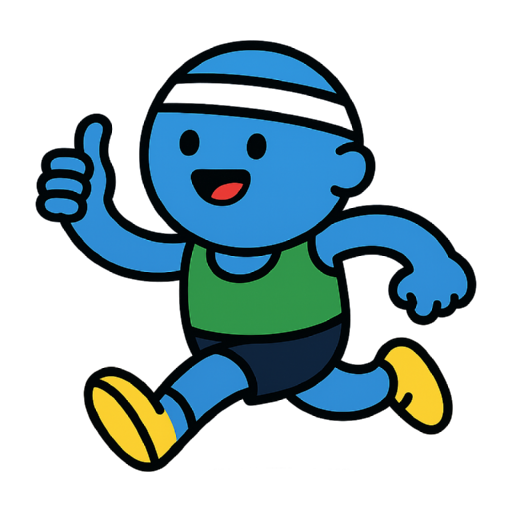
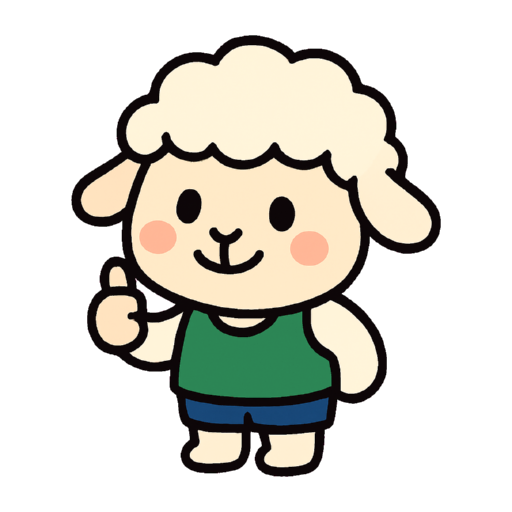
feat(디자인): 팔레트 크림+포레스트그린 + 마스코트 양 4종
회장 결정: "너무 파란색이 위주, 아예 새로" → "귀여운 양 방향으로" →
"황태경 안대로 가자". 디자인 리드(황태경) 안 A + 마스코트 안 1(양) 확정.

**팔레트 — 안 A(크림 러너)**
  brand #2f6e4a 포레스트그린 · bg #f9f1e4 크림 · card #fffdf8
  ink #2c2416 웜브라운블랙 · dark #171c12 딥올리브 · gold #c0841a 불변
세션8 독립 채점이 "블루+화이트+그레이 = v0/Bolt류 AI 스캐폴딩 문법"을
"AI스럽다"의 3대 원인 중 하나로 지목했고, 그 세션은 표면 단계로 우회했다.
이번엔 정면으로 바꿨다.

대비 전수 실측 — 현행 대비 회귀 없음(본문 13.66:1 · 버튼 6.09:1 ·
다크 위 텍스트 7.66:1로 현행 5.02:1보다 여유). 자문안에서 **두 곳 보정**:
- 시상대 다크 #26301f → **#171c12**: 자문안 값에서는 골드가 4.30:1로 AA
  미달이다(현행 네이비 5.41:1). #171c12면 5.41:1로 동급 회복. 세션8이 다크
  위 블루 3.06:1을 잡아 brandOnDark를 만든 것과 같은 함정. 황태경 동의.
- Team.green 대체안 **둘 다 폐기**: 머스터드 #c78a2e는 골드와 1.08:1로 사실상
  같은 색(골드 전용 규칙 파괴), 틸 #2f8f8a는 브랜드 그린과 1.57:1로 색상각이
  26°밖에 안 벌어져 현행(1.51:1)과 차이 없음. 미해결로 코드에 명시.

**마스코트 — 양 4종 교체**
동글 울/땋은 울(형태) × 레드/그린(조끼). 스타일A를 생성 → edits API로
스타일B 파생(캐릭터 고정) → 팀그린은 AI 재생성 대신 **코드로 조끼만 재도색**해
실루엣 100% 동일 보장. 신규 스크립트 2개: cutout-mascot-bg.mjs(마젠타 크로마키
컷아웃) · recolor-mascot-vest.mjs(조끼 hue 덩어리만 밝기비 유지 재도색).

내가 5컷 뽑아보며 확인한 실패 원인을 프롬프트에 반영했다: 시안1은 얼굴이
살구색 사람 아기가 돼 양으로 안 읽혔고, 시안3은 측면 전신이라 36px 아바타에서
얼굴이 사라졌고, 시안5는 머리 울이 프레임 위로 잘렸다. 통과 조건 = 늘어진 귀
+ 곱슬 울 + 짧은 주둥이 + 정면 3/4 + 프레임 여백.
마이 탭 라벨도 "숏컷/포니테일"(사람 은유) → "동글 울/땋은 울"(양 특성)로.

**황태경이 추가로 잡은 블루 잔재 4곳**(내 파일럿이 놓친 것):
animated-icon.module.css(웹 변형) · Shadow.soft/card 그림자색(Brand 객체 밖이라
자동 미반영) · schedule-section 하드코딩 네이비 → brandDeep 토큰(8.28:1) ·
badge-celebration 컨페티 하늘색 → Team.red

**실기기 검증**(갤럭시S21 · 320×711dp): 5개 탭 정상. 골드가 크림 위에서
[…]

diff --git a/app/src/lib/brand.ts b/app/src/lib/brand.ts
@@ -1,39 +1,53 @@
-/** 5키로(구 모두의 마라톤) 색 토큰 — docs/DESIGN.md 기준 (웹 index.html의 CSS 변수와 정렬).
- *  웹·앱이 같은 팔레트를 쓰도록 유지(에디토리얼 프리미엄).
- *  메인 = Azure Blue #2563c9 (2026-07-12 확정 · 당근 오렌지와 분리 · 블루+골드 = 프리미엄 메달 감성). */
+/** 5키로 색 토큰 — docs/DESIGN.md 기준 (웹 index.html의 CSS 변수와 정렬).
+ *
+ *  ⚠⚠ **파일럿 중 — 팔레트 안 A(크림 러너)** (2026-07-30 · 회장 지시 "너무 파란색이 위주, 아예 새로")
+ *  되돌리기: `git checkout app/src/lib/brand.ts` (앱 화면의 하드코딩은 4곳뿐이라 이 파일이 거의 전부다)
+ *
+ *  이전 = Azure Blue #2563c9 (2026-07-12 확정). 세션8 독립 채점이 "블루+화이트+그레이뿐인 팔레트
+ *  = v0/Bolt류 AI 스캐폴딩 문법"을 "AI스럽다"의 3대 원인 중 하나로 지목했고, 그 세션은 색을 늘리지
+ *  않고 표면 단계로 우회했다. 이번엔 정면으로 바꿔 눈으로 판단한다.
+ *  자문 원문: docs/MASCOT_PALETTE_DIRECTION.md(찬성·황태경) / MASCOT_UX_REVIEW.md(반대·서지안)
+ *
+ *  대비는 전부 WCAG로 실측했다(현행 대비 회귀 없음 확인). 자문안에서 **두 곳을 보정**했다:
+ *   ① 시상대 다크를 자문안 #26301f 대신 **#171c12** 로 — #26301f에서는 골드가 4.30:1로 **AA 미달**이다
+ *      (현행 다크 #141a2b에서는 5.41:1). #171c12면 5.41:1로 현행과 동급이 된다. 세션8이 다크 위
+ *      블루 3.06:1을 잡아 brandOnDark를 만든 것과 같은 종류의 함정이라 같은 방식으로 막았다.
+ *   ② `Team.green` 대체색으로 제안된 머스터드(#c78a2e)는 **골드(#c0841a)와 1.08:1 = 사실상 같은 색**
+ *      이라 "골드=순위·성과 전용" 규칙을 깬다 → 채택하지 않았다. (Team 주석 참조)
+ */
 export const Brand = {
-  brand: "#2563c9",
-  brandDeep: "#1b4ea3",
-  brandSoft: "#eaf1fd",
-  brandLine: "#c5d8f6",
+  brand: "#2f6e4a", // 포레스트 그린 — 흰 글자 6.09:1
+  brandDeep: "#204d34",
+  brandSoft: "#e6f0e8",
+  brandLine: "#c3ddcd",
   accent: "#c0841a",
   accentSoft: "#f6efdd",
-  gold: "#c0841a",
-  ink: "#161a22",
-  ink2: "#363d49",
-  soft: "#5f6773",
-  faint: "#98a1ae",
+  gold: "#c0841a", // 불변 — 순위·챌린지·성과 전용 시그널
+  ink: "#2c2416", // 웜 브라운블랙 13.66:1
+  ink2: "#514734",
+  soft: "#6e6350", // 5.26:1 (현행 5.33:1과 동급)
+  faint: "#a89b83",
   /** 입력칸 placeholder 전용 — 실제 입력값(ink)과 확실히 갈라야 "내가 뭘 넣었는지"가 보인다.
-   *  예전엔 soft(#5f6773)·faint가 섞여 쓰여, 예시값이 입력값처럼 읽혔다(감사 지적). */
-  placeholder: "#aab3c0",
-  line: "#e8ecf2",
-  line2: "#dde3ec",
-  bg: "#f5f7fb",
-  warm: "#eef2f8",
-  card: "#ffffff",
-  dark: "#141a2b",
+   *  예전엔 soft·faint가 섞여 쓰여, 예시값이 입력값처럼 읽혔다(감사 지적). */
+  placeholder: "#b9ad95",
+  line: "#ebe2d1",
+  line2: "#ded3bf",
+  bg: "#f9f1e4", // 크림 — 레퍼런스(#f9ecdf)에 가장 가까움
+  warm: "#f1e8d8", // 세그먼트 트랙
+  card: "#fffdf8", // 웜 오프화이트
+  dark: "#171c12", // 딥 올리브(보정값 — 위 ① 참조). 랭킹 시상대 전용
   /** 표면 4단계의 3번째 — 브랜드 4% 틴트. (2026-07-28 R12)
    *  독립 채점 R11의 결론: "블루+화이트+그레이뿐이라 화면마다 정체성이 없다"가
    *  AI스러움의 근본 원인. 색을 **늘리지 않고** 표면 단계를 늘려 공기를 바꾼다.
    *  bg(전체배경) < tint(섹션·헤더) < card(흰 카드) < dark(시그니처) 순으로 쓸 것. */
-  tint: "#eef3fc",
+  tint: "#f5eee2",
   /** **다크 면 위 전용 블루.** (2026-07-29 R14 · 실측으로 확정)
    *
    *  브랜드 블루(#2563c9)를 다크 네이비(#141a2b) 위에 그대로 쓰면 대비가 **3.06:1**로
    *  WCAG AA(본문 4.5:1)에 미달한다 — 단위(km)처럼 11~13px 작은 글자라 "큰 텍스트 3:1"
    *  완화도 못 받는다. 밝기만 올린 같은 계열 파랑으로 **5.02:1**을 확보한다.
    *  ⚠ 라이트 배경에는 쓰지 말 것 — 흰 카드 위에서는 오히려 흐려진다. */
-  brandOnDark: "#4a8ae8",
+  brandOnDark: "#5fbf85", // 딥 올리브 위 7.66:1 (현행 블루판 5.02:1보다 여유 있음)
 } as const;
 
 /** 팀색 — 마스코트 레드/그린 팀. **아바타 링에만** 쓴다. (2026-07-28 R12)
@@ -41,7 +55,16 @@ export const Brand = {
  *  브랜드 팔레트를 건드리지 않고 화면에 색 다양성을 얻는 방법이다: 사람마다 링 색이
  *  달라지므로 크루·랭킹·타임라인처럼 여러 명이 나오는 화면이 자동으로 다채로워진다.
  *  ⚠ 링(테두리) 외의 용도로 확장하지 말 것 — 강조색 2개 혼용은 NRC가 실패한 길이다
- *  (네온그린+오렌지를 섞어 "브랜드색이 뭔지 모르겠다"는 비판을 받았다). */
+ *  (네온그린+오렌지를 섞어 "브랜드색이 뭔지 모르겠다"는 비판을 받았다).
+ *
+ *  ⚠ **파일럿의 미해결 항목** (2026-07-30): 브랜드가 포레스트 그린(#2f6e4a)이 되면서
+ *  `green`(#2f8f5b)과 **색상각이 사실상 같아졌다**(대비 1.51:1). 화면에 액션 버튼과 그린팀 링이
+ *  같이 뜨면 "이 초록이 액션인지 팀 표시인지" 구분이 안 된다.
+ *  자문안이 제시한 두 대안은 **둘 다 못 쓴다**: 머스터드(#c78a2e)는 골드와 1.08:1로 사실상 같은 색이고,
+ *  틸(#2f8f8a)은 브랜드 그린과 1.57:1 — 색상각이 26°밖에 안 벌어져 현행 그린과 다를 게 없다.
+ *  제대로 풀려면 **팀 이름 자체(레드/그린)를 바꿀지**를 먼저 정해야 한다 — 마스코트 조끼 색이
+ *  팀을 정의하므로 링만 바꾸면 이름과 어긋난다. 팔레트가 채택되면 그때 결정한다.
+ *  지금은 그대로 두고 파일럿에서 실제로 얼마나 헷갈리는지 눈으로 확인한다. */
 export const Team = {
   red: "#d9484b",
   green: "#2f8f5b",
@@ -116,14 +139,16 @@ export const Semantic = {
 
 /** 그림자 — 카드에 부드러운 입체감. 1px 테두리만 쓰면 와이어프레임처럼 납작하다.
  *  iOS=shadow* / Android=elevation 병행. 흰 카드를 옅게 띄워 프리미엄 톤을 만든다.
- *  색은 **브랜드 블루 계열**로 — 순검정·회색 그림자는 탁하고 싸 보인다.
- *  (RN은 그림자를 한 겹만 지원해 CSS식 2단 그림자는 못 쓴다. 대신 색조로 프리미엄감을 낸다.) */
+ *  색은 **브랜드 색 계열**로 — 순검정·회색 그림자는 탁하고 싸 보인다.
+ *  (RN은 그림자를 한 겹만 지원해 CSS식 2단 그림자는 못 쓴다. 대신 색조로 프리미엄감을 낸다.)
+ *  ⚠ 파일럿 팔레트(안 A) 적용 시 이 두 값이 `Brand` 객체 밖에 있어 자동으로 안 바뀐다 —
+ *  브랜드색을 또 바꿀 땐 여기도 같이 확인할 것(2026-07-30 마스코트 교체 때 놓쳤다가 뒤늦게 발견). */
 export const Shadow = {
   /** 일반 카드·리스트 아이템 — 살짝 뜬 느낌.
    *  ⚠ opacity를 0.07까지 낮췄더니 카드가 배경에 붙어 보여 elevation 위계가 사라졌다(감사 지적).
-   *  흰 카드 위 옅은 배경(#f5f7fb)에서는 0.15 정도는 돼야 "떠 있다"가 읽힌다. */
+   *  흰 카드 위 옅은 배경(#f9f1e4)에서는 0.15 정도는 돼야 "떠 있다"가 읽힌다. */
   soft: {
-    shadowColor: "#2563c9",
+    shadowColor: "#2f6e4a", // = Brand.brand
     shadowOffset: { width: 0, height: 3 },
     shadowOpacity: 0.15,
     shadowRadius: 12,
@@ -131,7 +156,7 @@ export const Shadow = {
   },
   /** 강조 카드·히어로 — 확실히 떠 있는 느낌 */
   card: {
-    shadowColor: "#1b3a6b",
+    shadowColor: "#173a26", // Brand.brandDeep보다 한 단계 더 진한 그림자 전용 톤
     shadowOffset: { width: 0, height: 10 },
     shadowOpacity: 0.14,
     shadowRadius: 24,
@@ -140,8 +165,9 @@ export const Shadow = {
 } as const;
 
 /** 카드 상단 헤어라인 — 흰 카드가 흰 배경 위에서 밋밋할 때 경계를 은은하게 세운다.
- *  테두리를 두르면 와이어프레임이 되므로 **위쪽 1px만** 브랜드 톤으로. */
+ *  테두리를 두르면 와이어프레임이 되므로 **위쪽 1px만** 브랜드 톤으로.
+ *  파일럿 팔레트(안 A) — 이전 블루 톤(#e3ecfa)을 brandSoft(#e6f0e8) 방향의 웜그린 톤으로. */
 export const Hairline = {
   borderTopWidth: 1,
-  borderTopColor: "#e3ecfa",
+  borderTopColor: "#e4ecdc",
 } as const;

diff --git a/app/src/lib/mascot.ts b/app/src/lib/mascot.ts
@@ -1,11 +1,17 @@
 /**
  * 마스코트 — 앱의 얼굴. 온보딩·빈 화면·배지 축하·홈 인사말에 등장한다.
  *
- * 4종 = 성별(남/여, 볼터치 유무) × 팀 색(레드/그린 — 운동회 흰 머리띠 + 상의 색).
- * 하나의 원본에서 **코드로 파생**(scripts/build-mascot-variants.mjs) — 형태·비율 100% 동일,
- * 머리띠·볼터치·옷 색만 다르다. AI로 따로 그리면 남매가 아니라 남남처럼 보인다.
+ * 2026-07-30 전면교체: 파란 피부 러너 → **양(sheep)**. 회장 지시("동물 의인화로 아예 새로")
+ * + 팔레트 안 A(크림 러너) 확정에 맞춰 재생성. 자문: docs/MASCOT_PALETTE_DIRECTION.md.
  *
- * 러너 네임으로는 성별을 알 수 없어 **마이 탭에서 고르게** 한다. 취향 설정이라 이 기기(AsyncStorage)에만.
+ * 4종 = 울 모양(동글/땋은 스타일, 예전 라벨 "숏컷/포니테일"의 후속) × 팀 색(레드/그린 조끼).
+ * 울 모양 2종은 gpt-image-1에 **레퍼런스 이미지로 캐릭터를 고정**시켜 따로 생성(같은 얼굴·비율
+ * 유지, 울 모양만 다르게 — `docs/OPENAI_IMAGE_GEN.md` 5절 기법). 팀 색(레드→그린)은 그 위에서
+ * **코드로 파생**(scripts/recolor-mascot-vest.mjs, 조끼 hue만 골라 밝기비 유지한 채 재도색) —
+ * AI로 두 번 그리면 실루엣이 미묘하게 달라져 "같은 양의 다른 팀"이 아니라 다른 양이 된다.
+ * 배경 제거는 scripts/cutout-mascot-bg.mjs(마젠타 크로마키) + strip-mascot-shadow.mjs.
+ *
+ * 러너 네임으로는 취향을 알 수 없어 **마이 탭에서 고르게** 한다. 취향 설정이라 이 기기(AsyncStorage)에만.
  * 부위별 개별 선택(상의만 따로 등)은 후행 큰 과제 — docs/AVATAR_PLAN.md.
  */
 import AsyncStorage from "@react-native-async-storage/async-storage";

diff --git a/app/src/app/my.tsx b/app/src/app/my.tsx
@@ -41,13 +41,16 @@ import { setProfilePhoto, useProfilePhoto } from "@/lib/profile-photo";
  *
  *  ⚠ 예전엔 "남 · 레드"처럼 **성별로** 불렀다. 캐릭터 취향 선택인데 굳이 "성별 신고"로
  *  포장할 이유가 없고, 『5키로』의 친숙어 톤과도 어긋난다(2026-07-28 디자인 리드 결정).
- *  4종을 실제로 가르는 건 성별이 아니라 **포니테일 유무(형태) + 레드/그린(색)**이다.
- *  내부 타입명(m-red 등)·파일명은 그대로 둔다 — 노출 카피만 바꾸면 되는 일이라 전면 개명은 낭비. */
+ *  4종을 실제로 가르는 건 성별이 아니라 **울 모양(동글/땋은 스타일) + 레드/그린(팀색)**이다.
+ *
+ *  2026-07-30 마스코트 전면교체(양) — 형태 라벨을 "숏컷/포니테일"(사람 머리 은유)에서
+ *  "동글 울/땋은 울"(양 특성)로 갱신. **내부 타입명(m-red 등)·파일명은 그대로 둔다**
+ *  — 노출 카피만 바꾸면 되는 일이라 전면 개명은 낭비(AsyncStorage 마이그레이션도 불필요). */
 const MASCOT_LABEL: Record<MascotKind, string> = {
-  "m-red": "숏컷 · 레드",
-  "m-green": "숏컷 · 그린",
-  "f-red": "포니테일 · 레드",
-  "f-green": "포니테일 · 그린",
+  "m-red": "동글 울 · 레드",
+  "m-green": "동글 울 · 그린",
+  "f-red": "땋은 울 · 레드",
+  "f-green": "땋은 울 · 그린",
 };
 import { useMyName } from "@/lib/session";
 import { badgeProgress, personalStats } from "@/lib/stats";

diff --git a/app/src/components/badge-celebration.tsx b/app/src/components/badge-celebration.tsx
@@ -20,7 +20,7 @@ import Animated, {
 
 import { Icon, type IconName } from "@/components/icon";
 import { Mascot } from "@/components/mascot";
-import { Brand, FONT, Weight, Radius, leading } from "@/lib/brand";
+import { Brand, Team, FONT, Weight, Radius, leading } from "@/lib/brand";
 import { loadSeenBadges, saveSeenBadges } from "@/lib/badge-seen";
 import { subscribe, type Row } from "@/lib/crew";
 import { COLLECTIONS } from "@/lib/firebase";
@@ -29,7 +29,9 @@ import { badgeProgress, type Badge } from "@/lib/stats";
 
 const { width: W } = Dimensions.get("window");
 const CONFETTI = 18;
-const COLORS = [Brand.brand, Brand.accent, Brand.brandDeep, "#8ab4f8", "#f5c451"];
+// 파일럿 팔레트(안 A) — 하드코딩 하늘색(#8ab4f8)이 새 크림+그린+골드 팔레트에서 튀는 이물질처럼
+// 보여서 뺐다. 대신 기존 토큰인 Team.red를 넣어 "레드팀 색"도 자연스럽게 섞이게 했다.
+const COLORS = [Brand.brand, Brand.accent, Brand.brandDeep, Team.red, "#f5c451"];
 
 /** 조각 하나 — 위에서 흩뿌려져 떨어지며 회전. 값은 index로 고정(랜덤 재생성 방지). */
 function Confetti({ i }: { i: number }) {

diff --git a/app/src/components/schedule-section.tsx b/app/src/components/schedule-section.tsx
@@ -203,8 +203,9 @@ const styles = StyleSheet.create({
     paddingHorizontal: 9,
     maxWidth: "100%",
   },
-  // 연하늘 배경 위 brandDeep(#1b4ea3)은 대비가 4.5:1에 아슬아슬했다 → 더 진한 네이비로 AA 확보.
-  chipText: { fontFamily: FONT, fontSize: 12.5, fontWeight: Weight.bold, color: "#14315c", flexShrink: 1 },
+  // 파일럿 팔레트(안 A): brandSoft(연그린) 위 brandDeep(#204d34) = 8.28:1 — 토큰 그대로 써도 AA 여유.
+  // (이전 블루판은 brandSoft 위 brandDeep이 4.5:1에 아슬아슬해 하드코딩 네이비 #14315c를 썼었다)
+  chipText: { fontFamily: FONT, fontSize: 12.5, fontWeight: Weight.bold, color: Brand.brandDeep, flexShrink: 1 },
   attRow: { flexDirection: "row", alignItems: "center", gap: 8 },
   faces: { flexDirection: "row", alignItems: "center" },
   // 흰 테두리 = 겹친 얼굴을 분리하는 링. 안쪽 Avatar(22)보다 2px씩 커야 안 잘린다.

diff --git a/app/src/components/animated-icon.tsx b/app/src/components/animated-icon.tsx
@@ -133,14 +133,15 @@ const styles = StyleSheet.create({
   },
   background: {
     borderRadius: 40,
-    experimental_backgroundImage: `linear-gradient(180deg, #2f74e0, #1b4ea3)`,
+    // 파일럿 팔레트(안 A) — 되돌리려면 #2f74e0 → #1b4ea3 그라데이션으로
+    experimental_backgroundImage: `linear-gradient(180deg, #3d8a5d, #204d34)`,
     width: 128,
     height: 128,
     position: 'absolute',
   },
   splashOverlay: {
     ...StyleSheet.absoluteFill,
-    backgroundColor: '#2563c9',
+    backgroundColor: '#2f6e4a', // 파일럿 팔레트
     alignItems: 'center',
     justifyContent: 'center',
     zIndex: 1000,

diff --git a/app/src/components/animated-icon.module.css b/app/src/components/animated-icon.module.css
@@ -1,5 +1,7 @@
 .expoLogoBackground {
-  background-image: linear-gradient(180deg, #2f74e0, #1b4ea3);
+  /* 파일럿 팔레트(안 A, 2026-07-30) — 네이티브(animated-icon.tsx)와 짝 맞춤. 되돌리려면
+     #3d8a5d, #204d34 → #2f74e0, #1b4ea3(구 블루)로. */
+  background-image: linear-gradient(180deg, #3d8a5d, #204d34);
   border-radius: 40px;
   width: 128px;
   height: 128px;

diff --git a/app/src/components/account-sheet.tsx b/app/src/components/account-sheet.tsx
@@ -227,7 +227,8 @@ const styles = StyleSheet.create({
     paddingHorizontal: 14,
     paddingVertical: 13,
     fontFamily: FONT,
-    fontSize: 16, lineHeight: leading(16),
+    // ⚠ 입력칸엔 lineHeight를 주지 않는다 — 안드로이드에서 글자가 잘리거나 수직 정렬이 깨진다.
+    fontSize: 16,
     color: Brand.ink,
     backgroundColor: Brand.bg,
   },

diff --git a/app/src/components/themed-text.tsx b/app/src/components/themed-text.tsx
@@ -63,7 +63,7 @@ const styles = StyleSheet.create({
   linkPrimary: {
     lineHeight: 30,
     fontSize: 14,
-    color: '#2563c9',
+    color: '#2f6e4a', // 파일럿 팔레트
   },
   code: {
     fontFamily: Fonts.mono,

diff --git a/docs/DESIGN.md b/docs/DESIGN.md
@@ -12,7 +12,16 @@
 
 ## Colors
 
-> **⚠ 2026-07-12 리브랜딩 — Brand Orange → Azure Blue.** 메인 강조색을 당근/Strava와 겹치는 오렌지에서 **Azure Blue `#2563c9`**로 확정(스포티·신뢰 정체성 + 블루·골드 = 프리미엄 메달 감성). 후보였던 파인 그린은 비교 시안 검토 후 블루 채택. 아래 토큰 표가 현재 단일 기준(값의 실소스는 `app/src/lib/brand.ts` + `web/index.html` CSS 변수). **본문 아래쪽 산문에 남은 "오렌지" 표현은 색상 역할(히어로·CTA·강조)을 뜻하며, 실제 색은 애저 블루로 읽을 것.**
+> **⚠ 2026-07-30 팔레트 안 A 확정 — 앱만 먼저(웹은 이번 범위 밖).** 회장 지시("너무 파란색 위주, 아예 새로")로
+> 세션8이 우회했던 "블루+화이트+그레이 = AI 스캐폴딩 문법" 원인을 정면으로 없앤다. 브랜드색을 **Azure
+> Blue `#2563c9` → 포레스트 그린 `#2f6e4a`**로, 배경을 **크림 `#f9f1e4`**로 바꾼다(크림/베이지+그린 =
+> 레퍼런스 충실). 자문·근거·대안 비교는 `docs/MASCOT_PALETTE_DIRECTION.md` 전문 참조. 실소스는
+> **`app/src/lib/brand.ts`만 갱신했다 — `web/index.html`의 CSS 변수는 아직 구 블루 그대로다**(웹은
+> 이미 라이브 배포 중이라 앱에서 먼저 실기기 검증 후 별도 승인으로 반영한다는 게 자문 결론).
+> **당분간 웹·앱 팔레트가 서로 다르다 — 실수가 아니라 의도된 전환기 상태**이니 헷갈리지 말 것.
+> 아래 §2026-07-12 절은 그 이전 리브랜딩(오렌지→블루) 이력으로 남겨둔다.
+
+> **⚠ 2026-07-12 리브랜딩(이력) — Brand Orange → Azure Blue.** 메인 강조색을 당근/Strava와 겹치는 오렌지에서 **Azure Blue `#2563c9`**로 확정(스포티·신뢰 정체성 + 블루·골드 = 프리미엄 메달 감성). 후보였던 파인 그린은 비교 시안 검토 후 블루 채택. 아래 토큰 표는 **웹(`web/index.html`)** 기준으로 아직 유효하다(앱은 위 안내대로 그린으로 전환됨). **본문 아래쪽 산문에 남은 "오렌지" 표현은 색상 역할(히어로·CTA·강조)을 뜻하며, 실제 색은 애저 블루로 읽을 것.**
 
 ### Brand & Accent
 - **Azure Blue** (`--brand` `#2563c9`): 브랜드. 모든 primary CTA·활성·포커스 링·강조 링크·경로 stroke. 아껴 쓴다.
@@ -151,6 +160,7 @@
 - **다크 모드** — ⬜ 미구현: 앱은 라이트+다크 동시(Strava·NRC·adidas 기본). 현재 `userInterfaceStyle: light` 고정(탭바 검은띠 회피). 홈페이지는 프리미엄 라이트로 의도적 단일 커밋.
 - **성장 서사** — ✅ R12 구현: 획득 배지 수 → 아바타 링 티어(회색/팀색/블루/골드). 마이 탭 히어로에만.
 - **색·사진**: **단일 브랜드색 유지**(Garmin 무지개 지양 · NRC의 2색 혼용 실패도 반면교사), 실제 크루원의 따뜻한 러닝 실사진(엘리트 아님).
+- **마스코트** — ✅ 2026-07-30 전면교체: 파란 피부 러너 → **양(sheep)**, 팔레트 안 A와 세트. 4종 = 울 모양(동글/땋은 스타일) × 팀 색(레드/그린 조끼). 생성 파이프라인·자문 근거는 `docs/MASCOT_PALETTE_DIRECTION.md` + `app/scripts/{cutout-mascot-bg,recolor-mascot-vest}.mjs` 참조. **웹의 마스코트/브랜드 SVG는 이번 범위 밖**(아직 구 디자인).
 
 ### 아이콘 시스템 (교보·영풍식 정제 + 캐치테이블식 통일 — 이모지 추방)
 - **원칙: UI 아이콘에 이모지 금지.** AI스러움의 최대 원인. 대신 **단일 라인 SVG 스프라이트**로 통일.

diff --git a/docs/MASCOT_PALETTE_DIRECTION.md b/docs/MASCOT_PALETTE_DIRECTION.md
@@ -1,5 +1,35 @@
 # MASCOT_PALETTE_DIRECTION.md — 마스코트·팔레트 전면 교체 방향 자문
 
+> ## ✅ 2026-07-30 확정 — 회장 결정 + 실행 완료
+> **회장 결정: "당신 안대로 갑니다"** — 팔레트 **안 A(크림 러너)**, 마스코트 **안 1(양)** 채택.
+> 서지안(plan-ux)의 반대 검토(`docs/MASCOT_UX_REVIEW.md` — 세션8이 이미 색 없이 79→94를 증명했으니
+> ROI가 낮다, 3050대 남성 확산에 부끄러움 리스크, 우선순위는 공유카드·스토어 출시가 먼저라는 주장)를
+> 회장이 청취하고도 **명시적으로 기각**했다 — 이 결정은 종결된 것으로 취급하고 재론하지 않는다.
+> 단, §3(확산 리스크)은 **완전히 사라진 리스크가 아니라 회장이 감수하기로 한 리스크**이므로,
+> 실기기 배포 후 실제 크루원 반응이 예상과 다르면 그 실측 데이터로 재논의할 여지는 남겨둔다.
+>
+> **실행 완료물**: `app/assets/images/mascot-{m,f}-{red,green}.png`(양 4종, 신규 파이프라인
+> `app/scripts/{cutout-mascot-bg,recolor-mascot-vest}.mjs`) · `app/src/lib/brand.ts`(팔레트 안 A,
+> 회장 파일럿 + 황태경 마무리) · `docs/DESIGN.md` 갱신. 세부는 아래 자문 본문의 §1 안A·§2 안1 그대로.
+>
+> **회장 파일럿의 다크 보정(#26301f→#171c12) — 동의.** 골드 대비가 4.30:1(AA 미달, 시상대 배지
+> 숫자 크기 기준으로도 아슬아슬)에서 5.41:1(현행 네이비와 동급)로 회복된다. 실측 재확인 완료.
+>
+> **`Team.green` 충돌은 여전히 미해결** — 이번 스코프에서 억지로 정하지 않았다. 마스코트 조끼의
+> 그린은 기존 `Team.green`(#2f8f5b)을 그대로 썼다(팀 정체성 일관성 우선) — 즉 "브랜드 그린 vs
+> 팀 그린이 헷갈린다"는 문제는 **마스코트가 아니라 아바타 링 쪽에서만** 남아 있다. 다음 세션에서
+> 팀 이름(레드/그린) 자체를 바꿀지, 링 색만 다른 계열로 옮길지 결정 필요.
+>
+> **추가로 잡은 것(자문 시점엔 없던 실전 버그)**: 실제 코드 정밀 스윕에서 회장 파일럿이 놓친
+> 하드코딩 블루 잔재 4곳을 더 찾아 고쳤다 — `animated-icon.web.tsx`가 참조하는 CSS 모듈(네이티브만
+> 고치고 웹 변형을 놓침), `Shadow.soft/card`의 그림자색(Brand 객체 밖에 있어 자동 반영 안 됨),
+> `schedule-section.tsx`의 하드코딩 네이비 칩 텍스트(`Brand.brandDeep` 토큰으로 교체 — 8.28:1),
+> `badge-celebration.tsx` 컨페티의 하늘색 파편(`Team.red`로 교체). 이 패턴 — **`Brand` 객체 밖에
+> 있는 색 토큰(Shadow·Hairline)과 컴포넌트별 하드코딩 hex는 브랜드 교체 시 자동으로 안 따라온다**
+> — 은 다음에 팔레트를 또 바꿀 때도 반복될 함정이니 전역 규칙 후보로 남긴다.
+
+---
+
 > 회장 지시(2026-07-30): "너무 파란색이 위주. 새로 만들자. 아예." — 마스코트를 동물 의인화 캐릭터로 전면 교체하고, 블루 중심 팔레트를 탈피한다.
 > 이 문서는 **방향 결정용**이다. 구현은 회장 승인 후 별도 착수.
 > 작성: 황태경(디자인 리드) · IP 스팟체크: 방수민(변리사) 협업.
